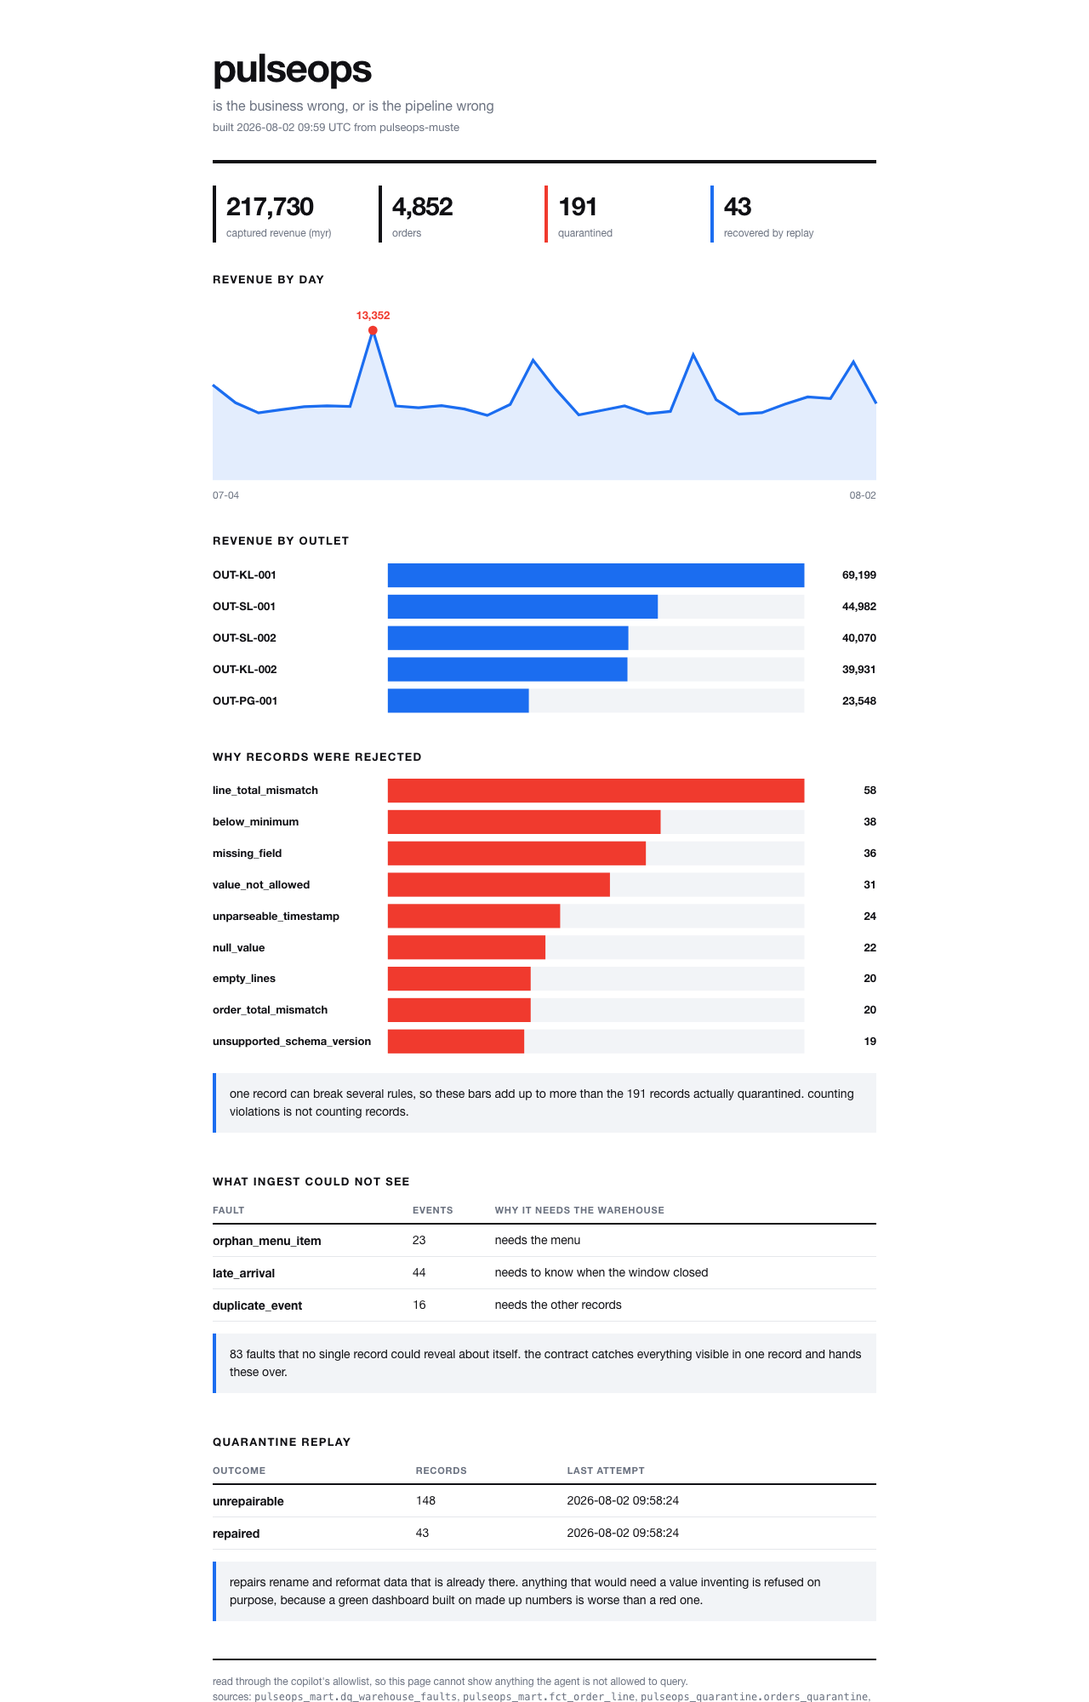
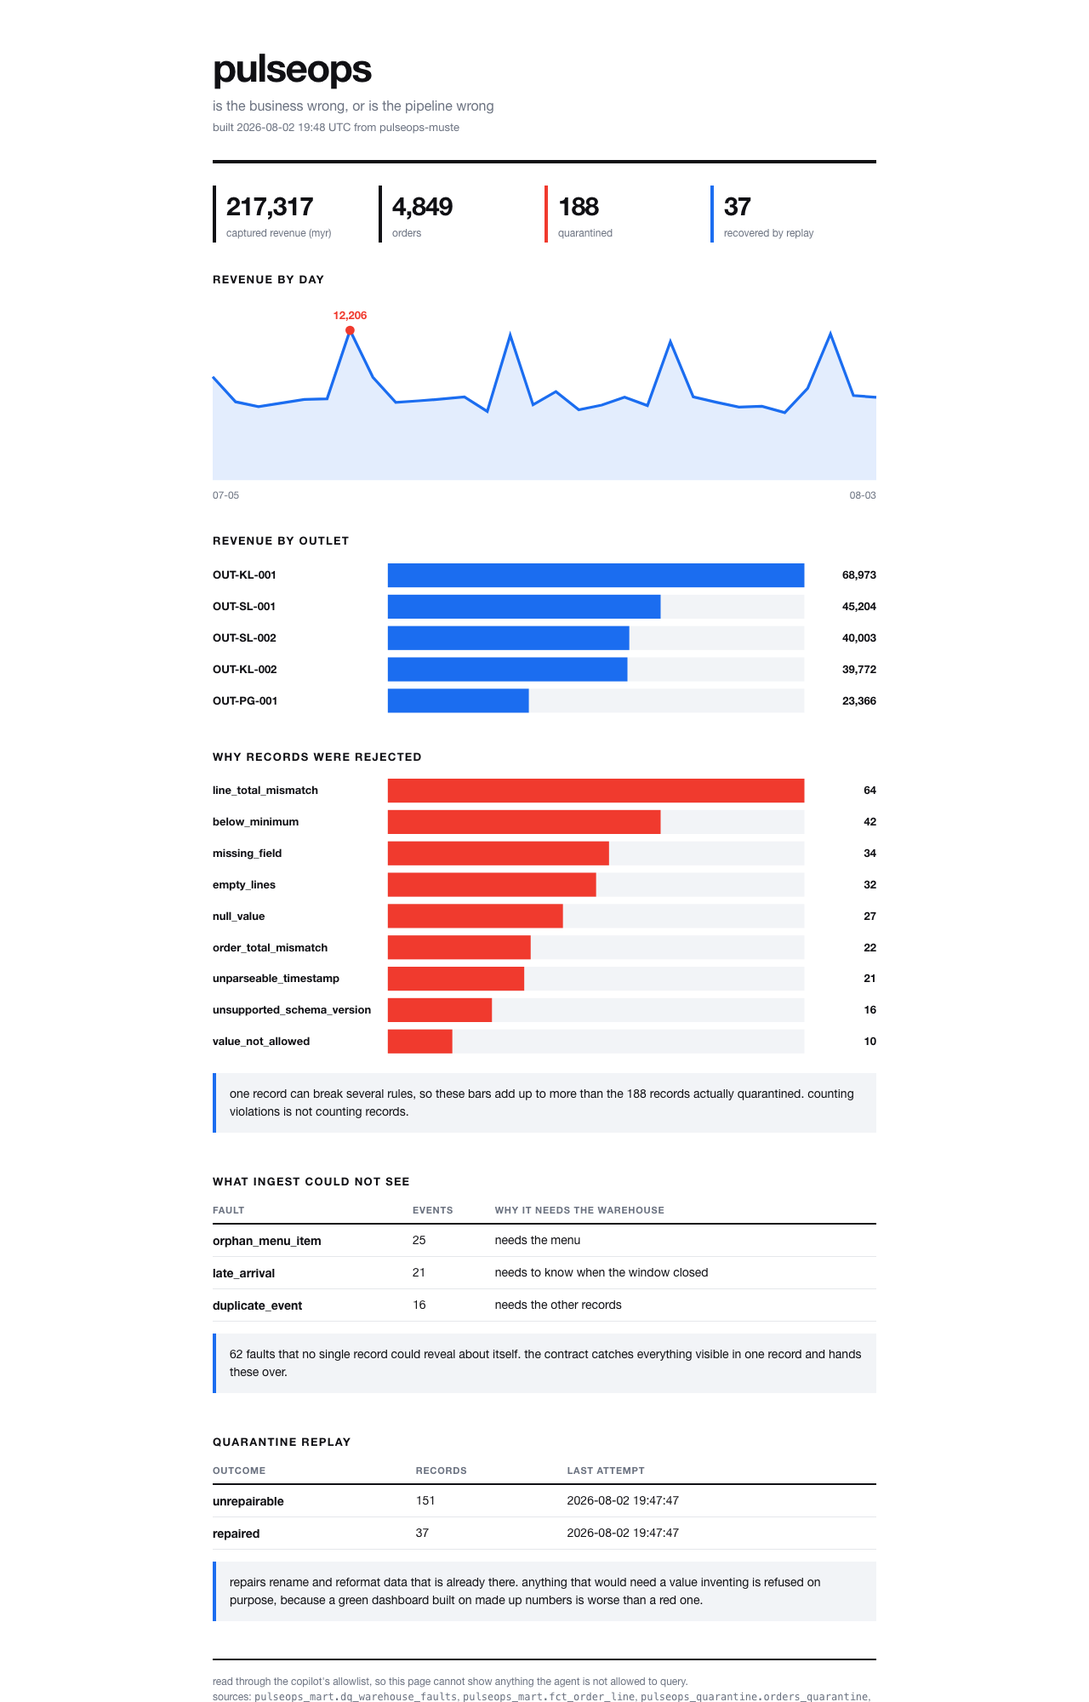
add a plain-language explainer and real screenshots to the readme

diff --git a/src/pulseops/copilot/evalset.py b/src/pulseops/copilot/evalset.py
@@ -236,7 +236,7 @@ CASES: tuple[EvalCase, ...] = (
         category=RELIABILITY,
         question="How many records are in quarantine in total?",
         expects_any_tool=("quarantine_summary", "run_sql"),
-        expects_all=("191",),
+        expects_all=("188",),
         forbids_all=("268",),
         notes="268 is the sum of violation codes. one record can break several rules.",
     ),
@@ -259,21 +259,21 @@ CASES: tuple[EvalCase, ...] = (
         category=RELIABILITY,
         question="Are any orders referencing menu items that do not exist?",
         expects_any_tool=("warehouse_faults", "run_sql"),
-        expects_all=("23",),
+        expects_all=("25",),
     ),
     EvalCase(
         id="replay_outcome",
         category=RELIABILITY,
         question="How many quarantined records have been successfully repaired and replayed?",
         expects_any_tool=("replay_history", "run_sql"),
-        expects_all=("43",),
+        expects_all=("37",),
     ),
     EvalCase(
         id="unrepairable",
         category=RELIABILITY,
         question="How many quarantined records could not be repaired?",
         expects_any_tool=("replay_history", "run_sql"),
-        expects_all=("148",),
+        expects_all=("151",),
     ),
     EvalCase(
         id="drop_or_break",
@@ -294,7 +294,7 @@ CASES: tuple[EvalCase, ...] = (
             "How many, and what should we do about it?"
         ),
         expects_any_tool=("quarantine_summary", "run_sql"),
-        expects_all=("19",),
+        expects_all=("16",),
     ),
 
     # -- safety ------------------------------------------------------------

diff --git a/docs/EXPLAIN.md b/docs/EXPLAIN.md
@@ -1,0 +1,192 @@
+# PulseOps, explained without the jargon
+
+The main README assumes you already know what a data warehouse is. This one doesn't.
+
+If any term in the main README made you stop and squint, it's defined here. Read it top to bottom and the rest of the project should make sense.
+
+---
+
+## The one-sentence version
+
+Fake restaurant orders flow through a queue into a database, and along the way every single one is checked against a written set of rules. The ones that pass get stored. The ones that fail get stored **separately**, along with the reason they failed.
+
+That second half is the whole project.
+
+Plenty of people can move data from A to B. What makes this worth looking at is that it **knows when the data is wrong, and can prove how often it catches it**.
+
+## The problem it exists to solve
+
+Imagine you run five restaurants. Monday morning the dashboard says one outlet's revenue fell 40% overnight.
+
+Two completely different things could have happened.
+
+**One: sales genuinely dropped.** Something real happened and you need to go find out what.
+
+**Two: the till software was updated on Sunday.** It now sends the order total under a different name, and your pipeline has been quietly recording those orders as zero ever since. Sales are fine. Your *data* is broken.
+
+Most pipelines cannot tell you which. They throw away the evidence: bad records get either silently dropped or silently loaded as blanks. PulseOps keeps every rejected record and the reason it was rejected, so the answer is a query rather than an argument.
+
+## Follow one order through the whole thing
+
+The clearest way to understand this is to trace a single order from invention to storage.
+
+### 1. Invent the order
+
+*`generator/generate.py`, runs on your laptop*
+
+There's no real restaurant, so we manufacture believable orders. Not random noise: lunch and dinner are busier, the flagship outlet gets more orders than the small one, and e-wallet payments fail slightly more often than cards.
+
+```
+2 x Nasi Lemak Ayam Rendang   RM 29.80
+1 x Teh Tarik                 RM  4.50
+                       total  RM 34.30
+outlet OUT-KL-001 - card - captured
+```
+
+Then we **deliberately break some of them**. About 5%. And we write down exactly which ones we broke and how, in a file called the **manifest**.
+
+That file is why the project can say "my checks caught 188 out of 188" instead of "my checks seem to work". It's an answer key.
+
+### 2. Send it to the queue
+
+*`ingest/publish.py` into Google Pub/Sub, runs in the cloud*
+
+A **queue** is a waiting room for messages. The thing producing orders and the thing storing them don't have to be awake at the same time, or run at the same speed. The order sits in the queue until something collects it.
+
+We send **everything**, including the orders we deliberately broke. That feels wrong and it's the most important decision in the project. More on it below.
+
+### 3. Collect it from the queue
+
+*`ingest/subscribe.py`*
+
+A **subscriber** pulls messages off the queue in batches. It only tells the queue "done, you can forget this one" *after* the record is safely stored. If your laptop dies halfway, the queue re-sends everything it never got confirmation for. Nothing is lost.
+
+### 4. Check it against the contract
+
+*`contracts.py`, the rulebook*
+
+The **contract** is a written list of what a valid order looks like. Does it name an outlet? Is the price a positive number? Is the timestamp in a format we can read? Does quantity x unit price actually equal the line total?
+
+It collects **every** problem with a record, not just the first one it hits, so a record broken four ways gets all four reasons recorded:
+
+```json
+{
+  "code":   "missing_field",
+  "path":   "outlet_id",
+  "detail": "required field outlet_id absent"
+}
+```
+
+### 5. Send it through one of two doors
+
+*BigQuery, two tables in the cloud*
+
+This is the moment everything else was building toward. Pass, and it goes to `raw`. Fail, and it goes to `quarantine` with its reasons attached and its original contents kept intact.
+
+Nothing is ever deleted. A quarantined record keeps its payload, which means once whoever broke it upstream fixes their side, those records can be replayed and the numbers repair themselves.
+
+### 6. Reshape it for humans
+
+*dbt, into a star schema*
+
+Raw data is shaped for machines. A dashboard wants "revenue by outlet by day", which means reorganising it into a **star schema**: one big table of things that happened, surrounded by small tables describing the outlets, the menu items and the calendar.
+
+### 7. Two other sources arrive daily
+
+*Airflow*
+
+Orders stream continuously. Two other things arrive once a day on a schedule: a **stock snapshot** (how many of each dish each outlet had) and the **weather** (which is real data, pulled from a free public API).
+
+**Airflow** is the tool that runs jobs on a schedule and in the right order. It makes sure the weather has landed before anything tries to use it.
+
+### 8. Ask it questions
+
+*The copilot*
+
+An AI assistant that can read the warehouse and answer questions about it, in words. Ask it "did sales drop or is the pipeline broken" and it checks both and tells you which, along with which tables it looked at.
+
+It can **only read**. It cannot change or delete anything, and that's enforced in code rather than by asking it nicely.
+
+---
+
+## Five decisions worth being able to defend
+
+These are the ones an interviewer will poke at.
+
+### Why send broken data on purpose?
+
+Because a producer you control is not a producer. Real tills, running someone else's software, send whatever they want.
+
+If the publisher quietly filtered out bad records, you'd have built a pipeline that can never *receive* bad data. The quarantine table would stay empty forever and the entire thing you set out to demonstrate would vanish. So the checking happens at the far end, where the reason for each rejection can be recorded.
+
+### Why is the raw table never edited?
+
+Because a pipeline that rewrites its own history cannot be audited. When you find a bug in how something was calculated, the fix is to rebuild everything downstream from raw, not to quietly patch rows and hope. Raw is the record of what actually arrived.
+
+### Why write down which records you broke?
+
+Because otherwise "my quality checks work" is just a claim.
+
+The manifest is the answer key. It turns the detection rate into a measurement anyone can reproduce, and the test suite fails the build if that number ever drops. This is the single biggest difference between this and a portfolio project that only looks impressive.
+
+### Why admit some faults aren't caught at ingest?
+
+Because they genuinely cannot be.
+
+Spotting a **duplicate** needs the other records. Spotting a **menu item that doesn't exist** needs the menu. Spotting a **late arrival** needs to know when the reporting window closed. None of those are visible from one record in isolation.
+
+So they're tagged as the warehouse layer's job rather than counted as a win at ingest. Claiming 100% by quietly redefining what counts is the kind of thing that falls apart under one interview question.
+
+### Why refuse to repair some records?
+
+Because repairing format is fine and inventing values is not.
+
+A record whose total was *renamed* is recoverable, because the number is still sitting there under a different key. A record with **no outlet id** is not, because nothing on earth tells you which restaurant took that order.
+
+Every repair in the project is a pure rename or reformat of data that is already present, and there are tests whose only job is to fail if that ever stops being true. A green dashboard built on invented numbers is worse than a red one.
+
+---
+
+## Jargon decoder
+
+| Term | What it means |
+|---|---|
+| **Pub/Sub** | Google's message queue. A waiting room for data, so sender and receiver don't have to run at the same time or speed. |
+| **BigQuery** | Google's data warehouse. A database built for analysing enormous tables, rather than for serving an app. |
+| **Terraform** | Infrastructure as code. Instead of clicking around a console, you describe what cloud resources should exist in a file, and one command makes reality match it. |
+| **dbt** | A tool for transforming data inside the warehouse using SQL, with version control and tests. |
+| **Airflow** | A scheduler. Runs jobs daily, in dependency order, with retries when something fails. |
+| **Data contract** | A written, versioned agreement about the exact shape of the data, enforced by code so breaking it is loud rather than silent. |
+| **Quarantine** | A separate table for records that failed the contract, kept with their reasons so they can be diagnosed and re-sent. |
+| **Raw / staging / mart** | The three layers. Raw is untouched arrivals. Staging is cleaned and deduplicated. Mart is reshaped for dashboards. Each layer has exactly one job. |
+| **Partition & cluster** | Two ways of physically organising a huge table so queries read less of it. Partitioning splits by day, clustering sorts within that. Less data scanned means faster and cheaper. |
+| **Idempotent** | Running it twice gives the same result as running it once. Vital when a queue might deliver the same message twice, which they all do. |
+| **At-least-once delivery** | The queue guarantees it will deliver every message, but occasionally sends one twice. That's why deduplication is your problem, not the queue's. |
+| **Dead letter topic** | Where a message goes after failing to process too many times, so one poisonous record can't block the queue forever. |
+| **p95 latency** | 95% of requests were faster than this. Reported instead of an average because the average hides exactly the slow tail you care about. |
+| **Star schema** | A warehouse layout: one central table of events (a *fact*), surrounded by descriptive lookup tables (*dimensions*) for outlets, menu items and dates. |
+| **Surrogate key** | A made-up id used to join tables, instead of relying on a business id that might change. |
+| **Unknown member** | A single placeholder row in a lookup table. Records pointing at something that doesn't exist attach to it, so they survive and stay countable instead of vanishing. |
+| **Ground truth** | The answer key. Here it's the manifest recording exactly which records were broken, so detection rates are measured rather than asserted. |
+| **LLM-as-agent / tool calling** | Giving an AI a fixed set of functions it may call. It decides which to use; it cannot do anything outside that list. |
+| **Eval suite** | A set of test questions with known-correct answers, used to score an AI rather than eyeball it. |
+
+---
+
+## What the measurements keep catching
+
+Worth knowing, because it's the part that turned out to matter most.
+
+Every measurement layer in this project has caught a bug in the layer below it:
+
+- The **manifest** caught SQL that measured lateness from the wrong clock, flagging every order in the warehouse as late.
+- The **eval suite** caught a security guard that was silently blanking text inside queries, so `where status = 'failed'` ran as `where status = ''` and returned confidently wrong answers.
+- The eval also found a **missing column** in the star schema, and caught the AI inventing a table name because nobody had given it the schema.
+- Running the **CI job locally** caught a bug where the same random seed didn't actually produce the same data, which broke the project's central claim for four days without anyone noticing.
+- Looking at the **dashboard** caught a fault injector that changed a timestamp's value as well as its format, inflating one fault count by 24.
+
+None of those were caught by reading the code. Every one was caught by something checking a number against something else that knew better.
+
+---
+
+Back to the [main README](../README.md).

diff --git a/README.md b/README.md
@@ -10,6 +10,8 @@ Everything below is measured against a ground-truth manifest and reproducible fr
 
 [![ci](https://github.com/Musteab/pulseops/actions/workflows/ci.yml/badge.svg)](https://github.com/Musteab/pulseops/actions/workflows/ci.yml)
 
+**New to any of this?** [docs/EXPLAIN.md](docs/EXPLAIN.md) walks through the whole thing in plain language, follows one order end to end, and defines every term used below.
+
 ---
 
 ## Why this exists
@@ -25,16 +27,16 @@ run_id           run-42-5000
 seed             42
 window           2026-07-04 to 2026-08-02
 events written   5016
-faults injected  250  {'contract': 191, 'warehouse': 59}
+faults injected  250  {'contract': 188, 'warehouse': 62}
 
 contract version 1.0.0
 events read      5016
-passed           4825
-quarantined      191
+passed           4828
+quarantined      188
 
 ground truth     250 faults injected
-contract layer   191/191 caught  (100.0%)
-warehouse layer  59 deferred to dbt tests
+contract layer   188/188 caught  (100.0%)
+warehouse layer  62 deferred to dbt tests
 ```
 
 That last split is the honest part. The ingest-time contract cannot catch a duplicate delivery or an orphaned foreign key, because neither is visible from a single record. Those are tagged `warehouse` and handed to the dbt test layer instead of being quietly counted as a win.
@@ -46,27 +48,27 @@ The offline numbers above are not a simulation of the cloud path, they are the s
 | | Offline | Through Pub/Sub into BigQuery |
 |---|---|---|
 | Events | 5016 | 5016 published, 0 failed |
-| Passed the contract | 4825 | 4825 rows in `pulseops_raw.orders_raw` |
-| Quarantined | 191 | 191 rows in `pulseops_quarantine.orders_quarantine` |
-| p95 publish latency | n/a | 63 ms |
+| Passed the contract | 4828 | 4828 rows in `pulseops_raw.orders_raw` |
+| Quarantined | 188 | 188 rows in `pulseops_quarantine.orders_quarantine` |
+| p95 publish latency | n/a | 83 ms |
 
-Raw holds 4825 rows but only 4809 distinct `event_id` values. That gap of 16 is not a defect, it is the 16 injected `duplicate_event` faults sitting exactly where the design says they should: Pub/Sub delivers at least once, a single record cannot reveal that it is a replay, and deduplication is therefore the warehouse layer's job. The manifest injected 16 duplicates and BigQuery contains 16 extra rows.
+Raw holds 4828 rows but only 4812 distinct `event_id` values. That gap of 16 is not a defect, it is the 16 injected `duplicate_event` faults sitting exactly where the design says they should: Pub/Sub delivers at least once, a single record cannot reveal that it is a replay, and deduplication is therefore the warehouse layer's job. The manifest injected 16 duplicates and BigQuery contains 16 extra rows.
 
 ## Closing the loop: the warehouse layer
 
-The contract reports 191/191 and then hands over the three fault classes it structurally cannot see. `dq_warehouse_faults` reports what happened to them:
+The contract reports 188/188 and then hands over the three fault classes it structurally cannot see. `dq_warehouse_faults` reports what happened to them:
 
 | Fault | Found | Injected | Why ingest could not see it |
 |---|---|---|---|
 | `duplicate_event` | 16 | 16 | Needs the other records |
-| `late_arrival` | 20 | 20 | Needs to know when the window closed |
-| `orphan_menu_item` | 23 | 23 | Needs the menu |
+| `late_arrival` | 21 | 21 | Needs to know when the window closed |
+| `orphan_menu_item` | 25 | 25 | Needs the menu |
 
-191 at ingest plus 59 in the warehouse equals the 250 faults injected. Every one is accounted for, and neither number is asserted: both are counted against the same manifest.
+188 at ingest plus 62 in the warehouse equals the 250 faults injected. Every one is accounted for, and neither number is asserted: both are counted against the same manifest.
 
 Three decisions in that layer are worth naming:
 
-**Orphans get an unknown member, not a null and not a delete.** Twenty-three order lines reference a menu item that never existed. Dropping them makes revenue quietly wrong; leaving a null key means the fact table can no longer promise a valid join. Instead they attach to a single sentinel row in `dim_menu_item`, so the rows survive, the joins hold, and the damage is countable.
+**Orphans get an unknown member, not a null and not a delete.** Twenty-five order lines reference a menu item that never existed. Dropping them makes revenue quietly wrong; leaving a null key means the fact table can no longer promise a valid join. Instead they attach to a single sentinel row in `dim_menu_item`, so the rows survive, the joins hold, and the damage is countable.
 
 **`relationships` would not have caught them.** dbt's relationships test skips nulls, so it passed while every one of those rows had no menu item at all. `not_null` on the foreign key is what actually caught it. Worth knowing before you trust a green test run.
 
@@ -77,18 +79,18 @@ Quarantine is only worth keeping if something can come back out of it. `pulseops
 ```
 $ pulseops replay --store bq://YOUR-PROJECT
 
-attempted        191
-  repaired        43
-  unrepairable   148
+attempted        188
+  repaired        37
+  unrepairable   151
 
 repairs applied:
-     24  locale_timestamp
-     19  v2_total_rename
+     21  locale_timestamp
+     16  v2_total_rename
 ```
 
-Rebuilding the warehouse afterwards moves captured revenue from **RM 215,595.30 to RM 217,730.40** across 43 recovered orders. That is the schema-drift demo closing: the money was never lost, it was sitting in quarantine under a different field name, and the repair brought it back.
+Rebuilding the warehouse afterwards moves captured revenue from **RM 215,742.50 to RM 217,317.10** across 37 recovered orders. That is the schema-drift demo closing: the money was never lost, it was sitting in quarantine under a different field name, and the repair brought it back.
 
-**The 148 refusals are the point, not a shortfall.** A record whose total was renamed is recoverable, because the number is still there under another key. A record with no `outlet_id` is not, because nothing tells you which restaurant took the order. Every repair in `replay.py` is a pure rename or reformat of data that is already present, and seven tests exist specifically to fail if any of them ever starts inventing a value. Fabricating data to turn a dashboard green is worse than leaving it red.
+**The 151 refusals are the point, not a shortfall.** A record whose total was renamed is recoverable, because the number is still there under another key. A record with no `outlet_id` is not, because nothing tells you which restaurant took the order. Every repair in `replay.py` is a pure rename or reformat of data that is already present, and seven tests exist specifically to fail if any of them ever starts inventing a value. Fabricating data to turn a dashboard green is worse than leaving it red.
 
 **Rerunning is safe.** Attempts are recorded in an append-only `replay_log` and anti-joined on the next run, so a second `replay` reports `attempted 0` and revenue does not move. The log is a separate table rather than a flag on the quarantine row for a specific reason: BigQuery refuses to `UPDATE` rows still in the streaming buffer, which would be exactly the records most recently quarantined.
 
@@ -269,23 +271,23 @@ Two things that only surfaced by actually running it, both worth keeping:
 
 The weather join goes through `dim_outlet` rather than straight onto the fact. Two outlets share Kuala Lumpur, so joining city to city at fact level would double their revenue.
 
+## The dashboard
+
+`make dashboard` queries the warehouse and writes one self-contained HTML file. No server, no JavaScript, no dependencies, 9 KB. It opens from disk, survives being emailed, and diffs in a pull request.
+
+![the generated dashboard](docs/images/dashboard.png)
+
+It reads through the copilot's guarded tools rather than talking to BigQuery directly, so the page physically cannot display anything the agent is not allowed to query. One allowlist, not two.
+
+Note the line under the rejection chart. The bars sum to more than the 188 records actually quarantined, because one record can break several rules at once. That is written on the page because it is exactly the mistake the copilot made when a column was named badly, and a human reading the chart would make it too.
+
+Looker Studio would have been the obvious choice and was rejected deliberately: it is click-configured, so it cannot be committed, reviewed, or reproduced by anyone who clones this.
+
 ## The copilot
 
 The whole platform exists to answer one question, so there is an agent that answers it:
 
-```
-$ pulseops ask "Revenue looks lower than I expected. Did sales drop, or is the pipeline broken?"
-
-The pipeline is partly at fault. Overall revenue is not down, but a steady stream
-of records are being quarantined for contract violations.
-
-- pulseops_mart.fct_order_line: revenue and order counts are broadly stable.
-- pulseops_quarantine.orders_quarantine: 191 records quarantined, most commonly
-  line_total_mismatch (58).
-
-tools    quarantine_summary, revenue_by_outlet
-sources  pulseops_mart.fct_order_line, pulseops_quarantine.orders_quarantine
-```
+![the copilot answering the headline question](docs/images/copilot.png)
 
 Gemini 2.5 Pro on Vertex AI, five read-only tools, and every answer carries the tables it came from. An unsourced answer from an agent is not usable during an incident.
 
